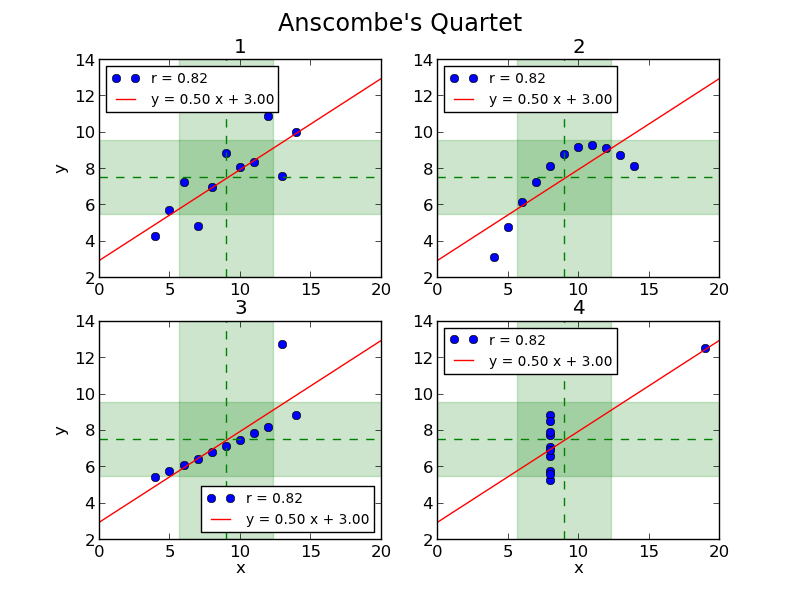
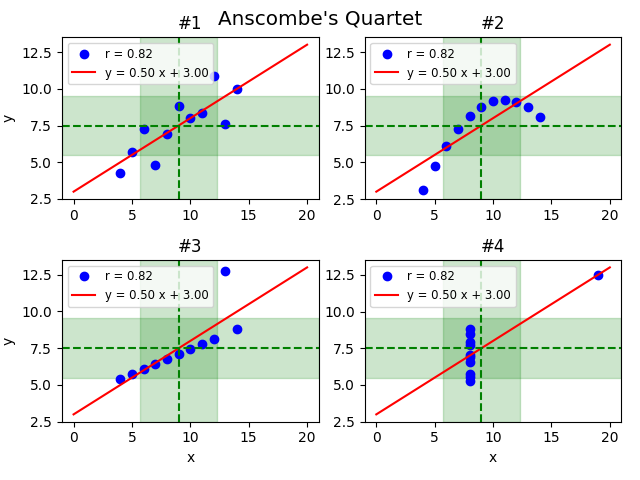
Passage des exos à python3.

diff --git a/Exercices/integ.py b/Exercices/integ.py
@@ -1,46 +1,30 @@
-#!/usr/bin/env python
+#!/usr/bin/env python3
 # -*- coding: utf-8 -*-
-# Time-stamp: <2014-09-17 19:30:18 ycopin>
-
-# Division réelle de type Python 3 - ligne admise
-from __future__ import division
+# Time-stamp: <2018-07-16 18:07:22 ycopin>
 
 """
-Définition de la fonction carré et calcul de son intégrale entre 0
-et 1 dans le main par la méthode des rectangles (subdivision en 100
-pas)
+Calcul de l'intégrale de x**2 entre 0 et 1 par la méthode des rectangles
+(subdivision en 100 pas)
 """
-
-__author__ = "Adrien Licari <adrien.licari@ens-lyon.fr>"
-
-# Définition de la fonction sq, admise au stade du TD 1
-
 
 def sq(x):
-    return x * x
+    "Définition de la fonction sq: x → x**2."
 
-# Début du programme principal (main)
+    return x**2
 
-# On définit les bornes d'intégration a et b, le nombre de pas n
-a = 0
-b = 1
-n = 100
+a, b = 0, 1                     # Bornes d'intégration
+n = 100                         # Nombre de pas
 
-# Largeur des rectangles dx
-h = (b - a) / n      # Division réelle!
+h = (b - a) / n                 # Largeur des rectangles
 
-integ = 0         # Cette variable accumulera les aires des rectangles
+total = 0                       # Cette variable accumulera les aires des rectangles
+for i in range(n):              # Boucle de 0 à n - 1
+    x = a + (i + 0.5) * h       # Abscisse du rectangle
+    total += sq(x) * h          # On ajoute l'aire du rectangle au total
 
-# On sait déjà que l'on va calculer n aires de rectangles, donc une
-# boucle for est appropriée
-for i in range(n):            # Boucle de 0 à n-1
-    x = a + (i + 0.5) * h         # Abscisse du rectangle
-    integ += sq(x) * h        # On ajoute au total l'aire du rectangle
-
-print "Intégrale de x**2 entre a =", a, "et b =", b, "avec n =", n
-# On affiche le résultat numérique
-print "Résultat numérique: ", integ
-theorie = (b ** 3 - a ** 3) / 3                     # Résultat analytique
-# On affiche le résultat analytique
-print "Résultat analytique:", theorie
-print "Erreur relative:", (integ / theorie - 1)  # On affiche l'erreur
+print("Intégrale de x**2 entre a =", a, "et b =", b, "avec n =", n, "rectangles")
+# On affiche les résultats numérique et analytique, ainsi que l'erreur relative
+print("Résultat numérique: ", total)
+theorie = (b ** 3 - a ** 3) / 3
+print("Résultat analytique:", theorie)
+print("Erreur relative:", (total / theorie - 1))

diff --git a/Exercices/anscombe.py b/Exercices/anscombe.py
@@ -14,12 +14,12 @@ def printStats(x, y):
 
     assert N.shape(x) == N.shape(y), "Incompatible input arrays"
 
-    print "x: mean={:.2f}, variance={:.2f}".format(N.mean(x), N.var(x))
-    print "y: mean={:.2f}, variance={:.2f}".format(N.mean(y), N.var(y))
-    print "y vs. x: corrcoeff={:.2f}".format(SS.pearsonr(x, y)[0])
+    print("x: mean={:.2f}, variance={:.2f}".format(N.mean(x), N.var(x)))
+    print("y: mean={:.2f}, variance={:.2f}".format(N.mean(y), N.var(y)))
+    print("y vs. x: corrcoeff={:.2f}".format(SS.pearsonr(x, y)[0]))
     # slope, intercept, r_value, p_value, std_err
     a, b, _, _, _ = SS.linregress(x, y)
-    print "y vs. x: y = {:.2f} x + {:.2f}".format(a, b)
+    print("y vs. x: y = {:.2f} x + {:.2f}".format(a, b))
 
 
 def plotStats(ax, x, y, title='', fancy=True):
@@ -46,16 +46,17 @@ def plotStats(ax, x, y, title='', fancy=True):
         # Add mean line ± stddev
         m = N.mean(x)
         s = N.std(x, ddof=1)
-        ax.axvline(m, color='g', ls='--', label='_')  # Mean
-        ax.axvspan(m - s, m + s, color='g', alpha=0.2, label='_')  # Std-dev
+        ax.axvline(m, color='g', ls='--', label='_')    # Mean
+        ax.axvspan(m - s, m + s, color='g', alpha=0.2)  # Std-dev
 
         m = N.mean(y)
         s = N.std(y, ddof=1)
-        ax.axhline(m, color='g', ls='--', label='_')  # Mean
-        ax.axhspan(m - s, m + s, color='g', alpha=0.2, label='_')  # Std-dev
+        ax.axhline(m, color='g', ls='--', label='_')    # Mean
+        ax.axhspan(m - s, m + s, color='g', alpha=0.2)  # Std-dev
 
         # Title and labels
-        ax.set_title(title)
+        if title:
+            ax.set_title(title)
         if ax.is_last_row():
             ax.set_xlabel("x")
         if ax.is_first_col():
@@ -70,11 +71,12 @@ if __name__ == '__main__':
 
     for i in range(4):                  # Loop over quartet sets x,y
         ax = fig.add_subplot(2, 2, i + 1)
-        print "Dataset #{} ".format(i + 1) + "=" * 20
+        print(" Dataset #{} ".format(i + 1).center(40, '='))
         x, y = quartet[:, 2 * i:2 * i + 2].T
         printStats(x, y)                # Print main statistics
-        plotStats(ax, x, y, title=str(i + 1))  # Plots
+        plotStats(ax, x, y, title='#'+str(i + 1))  # Plots
 
     fig.suptitle("Anscombe's Quartet", fontsize='x-large')
+    fig.tight_layout()
 
     P.show()

diff --git a/Exercices/pm.py b/Exercices/pm.py
@@ -6,28 +6,28 @@ import random
 nmin, nmax = 1, 100
 nsol = random.randint(nmin, nmax)
 
-print "Vous devez deviner un nombre entre {} et {}.".format(nmin, nmax)
+print("Vous devez deviner un nombre entre {} et {}.".format(nmin, nmax))
 ncoups = 0
 try:
     while True:
-        proposition = raw_input("Votre proposition: ")
+        proposition = input("Votre proposition: ")
         try:
             ntest = int(proposition)
             if not nmin <= ntest <= nmax:
                 raise ValueError("Proposition invalide")
         except ValueError:
-            print "Votre proposition {!r} n'est pas un entier " \
-                "compris entre {} et {}.".format(proposition, nmin, nmax)
+            print("Votre proposition {!r} n'est pas un entier compris entre {} et {}."
+                  .format(proposition, nmin, nmax))
             continue
         ncoups += 1
         if nsol > ntest:
-            print "C'est plus."
+            print("C'est plus.")
         elif nsol < ntest:
-            print "C'est moins."
+            print("C'est moins.")
         else:
-            print "Vous avez trouvé en {} coup{}!".format(
-                ncoups, 's' if ncoups > 1 else '')
+            print("Vous avez trouvé en {} coup{}!".format(
+                ncoups, 's' if ncoups > 1 else ''))
             break  # Interrompt la boucle while
 except (KeyboardInterrupt, EOFError):  # Interception de Ctrl-C et Ctrl-D
-    print "\nVous abandonnez après seulement {} coup{}!".format(
-        ncoups, 's' if ncoups > 1 else '')
+    print("\nVous abandonnez après seulement {} coup{}!"
+          .format(ncoups, 's' if ncoups > 1 else ''))

diff --git a/Exercices/crible.py b/Exercices/crible.py
@@ -1,4 +1,4 @@
-#!/usr/bin/env python
+#!/usr/bin/env python3
 # -*- coding: utf-8 -*-
 
 """
@@ -19,22 +19,22 @@ if sys.argv[1:]:  # Présence d'au moins un argument sur la ligne de commande
     except ValueError:
         raise ValueError("L'argument '{}' n'est pas un entier"
                          .format(sys.argv[1]))
-else:                        # Pas d'argument sur la ligne de commande
-    n = 101                  # Valeur par défaut
+else:                         # Pas d'argument sur la ligne de commande
+    n = 101                   # Valeur par défaut
 # end-sys
 
 # Liste des entiers *potentiellement* premiers. Les nb non premiers
 # seront étiquetés par 0 au fur et à mesure.
-l = range(n + 1)                          # <0,...,n>, 0 n'est pas premier
+l = list(range(n + 1))                  # <0,...,n>, 0 n'est pas premier
 l[1] = 0                                # 1 n'est pas premier
 
 i = 2                                   # Entier à tester
-while i ** 2 <= n:                        # Inutile de tester jusqu'à n
+while i**2 <= n:                        # Inutile de tester jusqu'à n
     if l[i] != 0:                       # Si i n'est pas étiqueté (=0)...
         # ...étiqueter tous les multiples de i
         l[2 * i::i] = [0] * len(l[2 * i::i])
     i += 1                              # Passer à l'entier à tester suivant
 
 # Afficher la liste des entiers premiers (c-à-d non étiquetés)
-print "Liste des entiers premiers <= {} :".format(n)
-print [i for i in l if i != 0]
+print("Liste des entiers premiers <= {} :".format(n))
+print([i for i in l if i != 0])

diff --git a/Exercices/pgcd.py b/Exercices/pgcd.py
@@ -1,6 +1,6 @@
-#!/usr/bin/env python
+#!/usr/bin/env python3
 # -*- coding: utf-8 -*-
-# Time-stamp: <2017-12-06 18:21:48 ycopin>
+# Time-stamp: <2018-07-16 18:29:12 ycopin>
 
 """
 Calcul du PGCD de deux entiers.
@@ -11,21 +11,20 @@ a = 306
 b = 756
 
 # Test usuels : les nombres sont bien positifs et a > b
-assert a > 0
-assert b > 0
+assert (a > 0) and (b > 0)
 if (a < b):
-    a, b = b, a                   # Interversion
+    a, b = b, a                   # Interversion: on suppose a >= b
 
 a0, b0 = a, b                     # On garde une copie des valeurs originales
 
-# On boucle jusqu'à ce que le reste soit nul, d'où la boucle while. Il
-# faut être sûr que l'algorithme converge dans tous les cas!
+# On boucle jusqu'à ce que le reste soit nul, d'où la boucle while. Il faut
+# être sûr que l'algorithme converge dans tous les cas!
 while (b != 0):
     # On remplace a par b et b par le reste de la division euclidienne
     # de a par b
     a, b = b, a % b
 
-print 'Le PGCD de', a0, 'et', b0, 'vaut', a  # On affiche le résultat
+print('Le PGCD de', a0, 'et', b0, 'vaut', a)  # On affiche le résultat
 # Vérifications
-print a0 // a, 'x', a, '=', (a0 // a * a)  # a//b: division euclidienne
-print b0 // a, 'x', a, '=', (b0 // a * a)
+print(a0 // a, '×', a, '=', (a0 // a * a))  # a//b: division euclidienne
+print(b0 // a, '×', a, '=', (b0 // a * a))

diff --git a/Exercices/carre.py b/Exercices/carre.py
@@ -1,6 +1,6 @@
-#!/usr/bin/env python
+#!/usr/bin/env python3
 # -*- coding: utf-8 -*-
-# Time-stamp: <2017-07-13 14:29 ycopin@lyonovae03.in2p3.fr>
+# Time-stamp: <2018-07-16 18:13:01 ycopin>
 
 """
 Création et affichage d'un carré magique d'ordre impair.
@@ -18,7 +18,7 @@ assert n % 2 == 1, "L'ordre {} n'est pas impair".format(n)
 array = [[0 for j in range(n)] for i in range(n)]
 
 # Initialisation de l'algorithme
-i, j = n, (n + 1) / 2         # Indices de l'algo (1-indexation)
+i, j = n, (n + 1) // 2        # Indices de l'algo (1-indexation)
 array[i - 1][j - 1] = 1       # Attention: python utilise une 0-indexation
 
 # Boucle sur valeurs restant à inclure dans le carré (de 2 à n**2)
@@ -34,8 +34,8 @@ for k in range(2, n**2 + 1):
     array[i - 1][j - 1] = k       # Remplissage de la case
 
 # Affichage, avec vérification des sommes par ligne et par colonne
-print "Carré magique d'ordre {}:".format(n)
+print("Carré magique d'ordre {}:".format(n))
 for row in array:
-    print '  '.join('{:2d}'.format(k) for k in row), '=', sum(row)
-print '  '.join('==' for k in row)
-print '  '.join(str(sum(array[i][j] for i in range(n))) for j in range(n))
+    print('  '.join('{:2d}'.format(k) for k in row), '=', sum(row))
+print('  '.join('==' for k in row))
+print('  '.join(str(sum(array[i][j] for i in range(n))) for j in range(n)))

diff --git a/Exercices/fizz.py b/Exercices/fizz.py
@@ -1,6 +1,6 @@
-#!/usr/bin/env python
+#!/usr/bin/env python3
 # -*- coding: utf-8 -*-
-# Time-stamp: <2017-05-28 21:42 ycopin@lyonovae03.in2p3.fr>
+# Time-stamp: <2018-07-16 18:15:38 ycopin>
 
 """
 Jeu du Fizz Buzz
@@ -10,11 +10,12 @@ __author__ = "Yannick Copin <y.copin@ipnl.in2p3.fr>"
 
 
 for i in range(1, 100):                    # Entiers de 1 à 99
-    if ((i % 3) == 0) and ((i % 5) == 0):  # Multiple de 3 et 5
-        print 'Fizz Buzz!',                # Affichage sans retour à la ligne
+    if ((i % 3) == 0) and ((i % 5) == 0):  # Multiple de 3 *et* de 5
+        print('FIZZ BUZZ!', end=' ')       # Affichage sans retour à la ligne
     elif ((i % 3) == 0):                   # Multiple de 3 uniquement
-        print 'Fizz!',
+        print('Fizz!', end=' ')
     elif ((i % 5) == 0):                   # Multiple de 5 uniquement
-        print 'Buzz!',
+        print('Buzz!', end=' ')
     else:
-        print i,
+        print(i, end=' ')
+print()                                    # Retour à la ligne final

diff --git a/Exercices/koch.py b/Exercices/koch.py
@@ -58,7 +58,7 @@ if __name__ == '__main__':
     # Exemple d'utilisation de la bibliothèque de gestion d'arguments 'argparse'
     import argparse
 
-    desc = u"Tracé (via 'turtle') d'un flocon de Koch d'ordre arbitraire."
+    desc = "Tracé (via 'turtle') d'un flocon de Koch d'ordre arbitraire."
 
     # Définition des options
     parser = argparse.ArgumentParser(description=desc)
@@ -96,7 +96,7 @@ if __name__ == '__main__':
     koch(niveau=args.ordre, taille=args.taille, delta=args.delta)
     if args.figure:
         # Sauvegarde de l'image
-        print "Sauvegarde de la figure dans '{}'".format(args.figure)
+        print("Sauvegarde de la figure dans '{}'".format(args.figure))
         T.getscreen().getcanvas().postscript(file=args.figure)
 
     T.exitonclick()

diff --git a/Exercices/syracuse.py b/Exercices/syracuse.py
@@ -1,6 +1,6 @@
-#!/usr/bin/env python
+#!/usr/bin/env python3
 # -*- coding: utf-8 -*-
-# Time-stamp: <2017-12-06 18:23:45 ycopin>
+# Time-stamp: <2018-07-16 18:31:01 ycopin>
 
 __author__ = "Adrien Licari <adrien.licari@ens-lyon.fr>; Yannick Copin <y.copin@ipnl.in2p3.fr>"
 
@@ -50,7 +50,7 @@ def temps_syracuse(n, altitude=False):
 if __name__ == '__main__':
 
     n = 15
-    print "Suite de Syracuse pour n =", n
-    print suite_syracuse(n)
-    print "Temps de vol total:      ", temps_syracuse(n)
-    print "Temps de vol en altitude:", temps_syracuse(n, altitude=True)
+    print("Suite de Syracuse pour n =", n)
+    print(suite_syracuse(n))
+    print("Temps de vol total:      ", temps_syracuse(n))
+    print("Temps de vol en altitude:", temps_syracuse(n, altitude=True))

diff --git a/Exercices/life.py b/Exercices/life.py
@@ -1,6 +1,6 @@
-#!/usr/bin/env python
+#!/usr/bin/env python3
 # -*- coding: utf-8 -*-
-# Time-stamp: <2017-06-27 18:59 ycopin@lyonovae03.in2p3.fr>
+# Time-stamp: <2018-07-16 18:24:30 ycopin>
 
 import random
 
@@ -91,8 +91,10 @@ if __name__ == "__main__":
     # Instantiation (including initialization)
     life = Life(h, w, periodic=True)
 
+    generation = 0
     while True:                         # Infinite loop! (Ctrl-C to break)
-        print life                      # Print current world
-        print "\n"
+        print(generation)
+        print(life)                     # Print current world
+        generation += 1
         time.sleep(0.1)                 # Pause a bit
         life.evolve()                   # Evolve world

diff --git a/Exercices/mad.py b/Exercices/mad.py
@@ -20,8 +20,8 @@ if __name__ == '__main__':
 
     x = N.arange(4 * 5, dtype=float).reshape(4, 5)
 
-    print "x =\n", x
-    print "MAD(x, axis=None)   =", mad(x)
-    print "MAD(x, axis=0)      =", mad(x, axis=0)
-    print "MAD(x, axis=1)      =", mad(x, axis=1)
-    print "MAD(x, axis=(0, 1)) =", mad(x, axis=(0, 1))
+    print("x =\n", x)
+    print("MAD(x, axis=None)   =", mad(x))
+    print("MAD(x, axis=0)      =", mad(x, axis=0))
+    print("MAD(x, axis=1)      =", mad(x, axis=1))
+    print("MAD(x, axis=(0, 1)) =", mad(x, axis=(0, 1)))

diff --git a/Exercices/class_factory.py b/Exercices/class_factory.py
@@ -37,6 +37,6 @@ if __name__ == '__main__':
     susie = friendFactory('female')('Susie')
     hobbes = friendFactory('tiger')('Hobbes')
 
-    print calvin
-    print susie
-    print hobbes
+    print(calvin)
+    print(susie)
+    print(hobbes)
